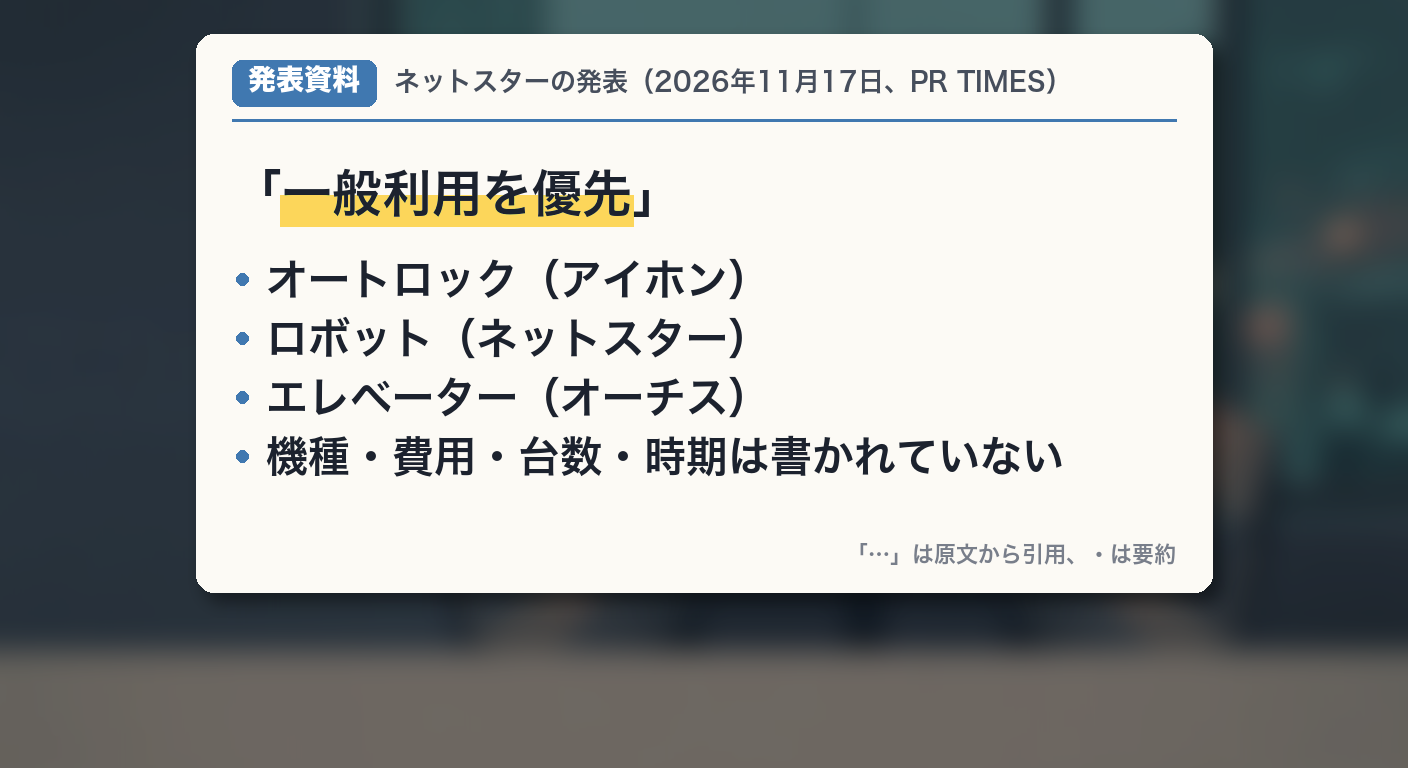
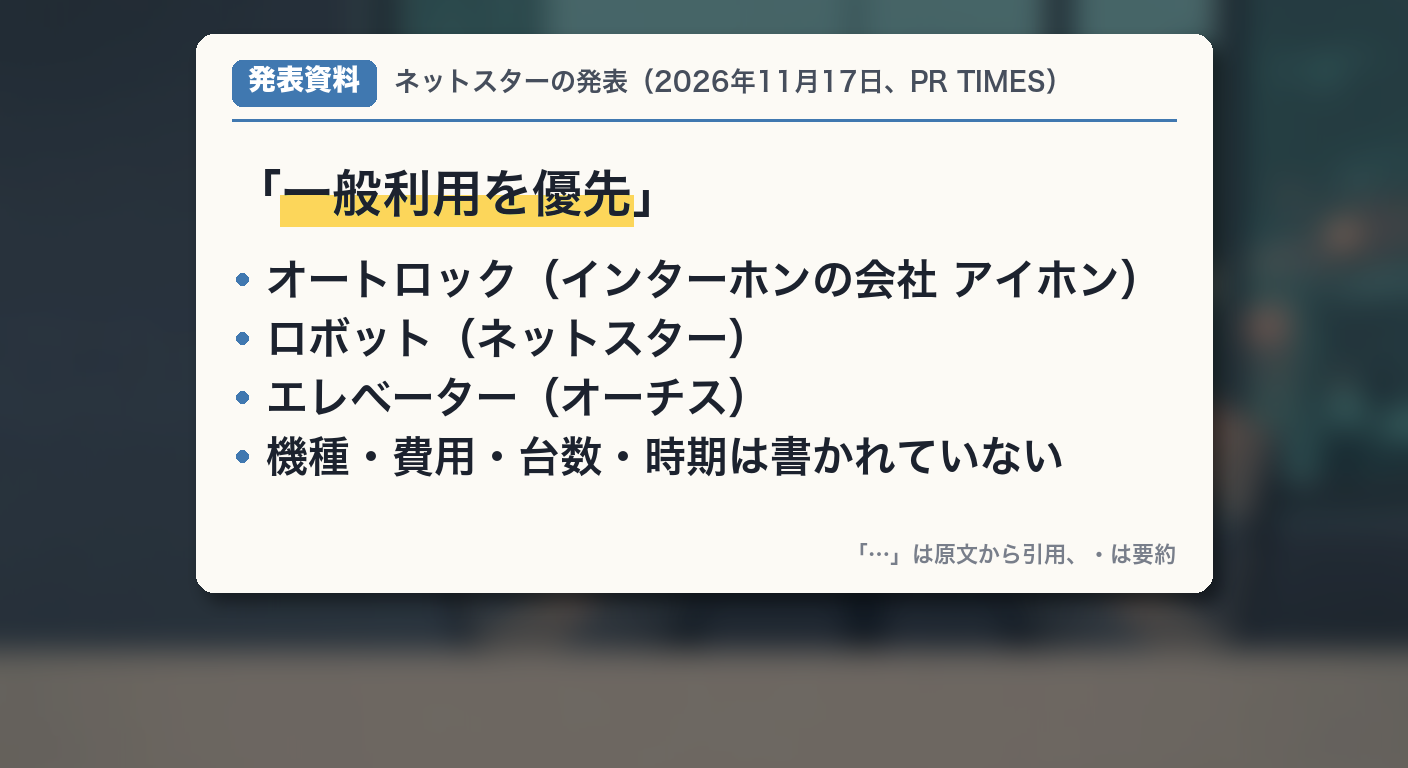
kl061: 初見レビューr2の【できれば】反映

Changed region(s): [[0.4062, 0.3438, 0.8125, 0.4062]]

diff --git a/script_prep/kl061.md b/script_prep/kl061.md
@@ -79,14 +79,14 @@
 | 発表者 | （出さない） | 「ロボットの会社、ネットスター」→以後「ネットスターの発表」 | NETSDAR、ネットスターロボットソリューションズ |
 | 実験の枠組み | — | 「福岡市などが進める、まちづくりの実験」（1回だけ） | FUKUOKA Smart EAST（台詞では言わない。カードと概要欄） |
 | 建物 | 「マンション」 | 「福岡市にある、URの賃貸住宅」＋沙織「URって、昔の住宅公団？」→「団地の一棟」（初見r1-10で追加） | 香椎3号棟（カード・概要欄だけ） |
-| アイホン | — | 台詞では社名を言わず「インターホンの会社」→「同じインターホンの会社」（初見r1-3: 耳で「アイフォン」に聞こえるため。カードの文字は「アイホン」のまま） | 台詞の「アイホン」、Pabbit・dearis（カードは「Pabbit（パビット）」） |
+| アイホン | — | 台詞では社名を言わず「インターホンの会社」→「同じインターホンの会社」（初見r1-3: 耳で「アイフォン」に聞こえるため。カードは「インターホンの会社アイホン」「アイホン（インターホンの会社）の発表」と添える。初見r2-2） | 台詞の「アイホン」、Pabbit・dearis（カードは「Pabbit（パビット）」） |
 | オーチス | — | 「エレベーターの会社」（社名は1回だけ「オーチス」） | 日本オーチス・エレベータ |
 | ワールドサプライ | — | 「物流の会社」 | 社名（台詞では言わない） |
 | アマゾン | — | 「アマゾンの配達」 | Amazon Key |
 | ロボット | 「ロボ」（タイトル）／「ロボット」（台詞） | 台詞は全部「ロボット」 | 配送ロボ、AMR |
 | 置き配 | 「玄関前に置く」 | 「置き配」（S5で定義） | 「家に入る」「部屋に入る」（使わない） |
 | 置く場所 | 「玄関の前」 | 「オートロックの内側の、玄関の前」 | 「家の中」 |
-| トレイ | — | 「載せている受け皿ごと」「空いた受け皿の回収を頼む」（誰が取りに来るかは資料に無いと言う。初見r1-4） | 「トレイ」「ロボットが取りに来る」 |
+| トレイ | — | 「ロボットの箱から、荷物を受け皿ごと」「空いた受け皿の回収を頼む」（箱＝収納庫（上段・下段）。初見r2-3）（誰が取りに来るかは資料に無いと言う。初見r1-4） | 「トレイ」「ロボットが取りに来る」 |
 | 予想・札の「3年」 | — | 大輔「3年のうちに」／沙織「ふつうになるのは、3年より先」／札「3年はかかる」＝「すぐではないけど、3年のうちには来そう」と S12 で一言（初見r1-1・2） | 沙織の「3年より長くかかる」（札と同じに聞こえる）、「3年はかかる、に上げる」 |
 | 実験の日 | — | 「11月18日」「1日、1時間半」 | 「11月の実験」と「先週の実験」の混在 |
 | 発表の日 | — | 「11月17日の発表」（1回だけ） | — |
